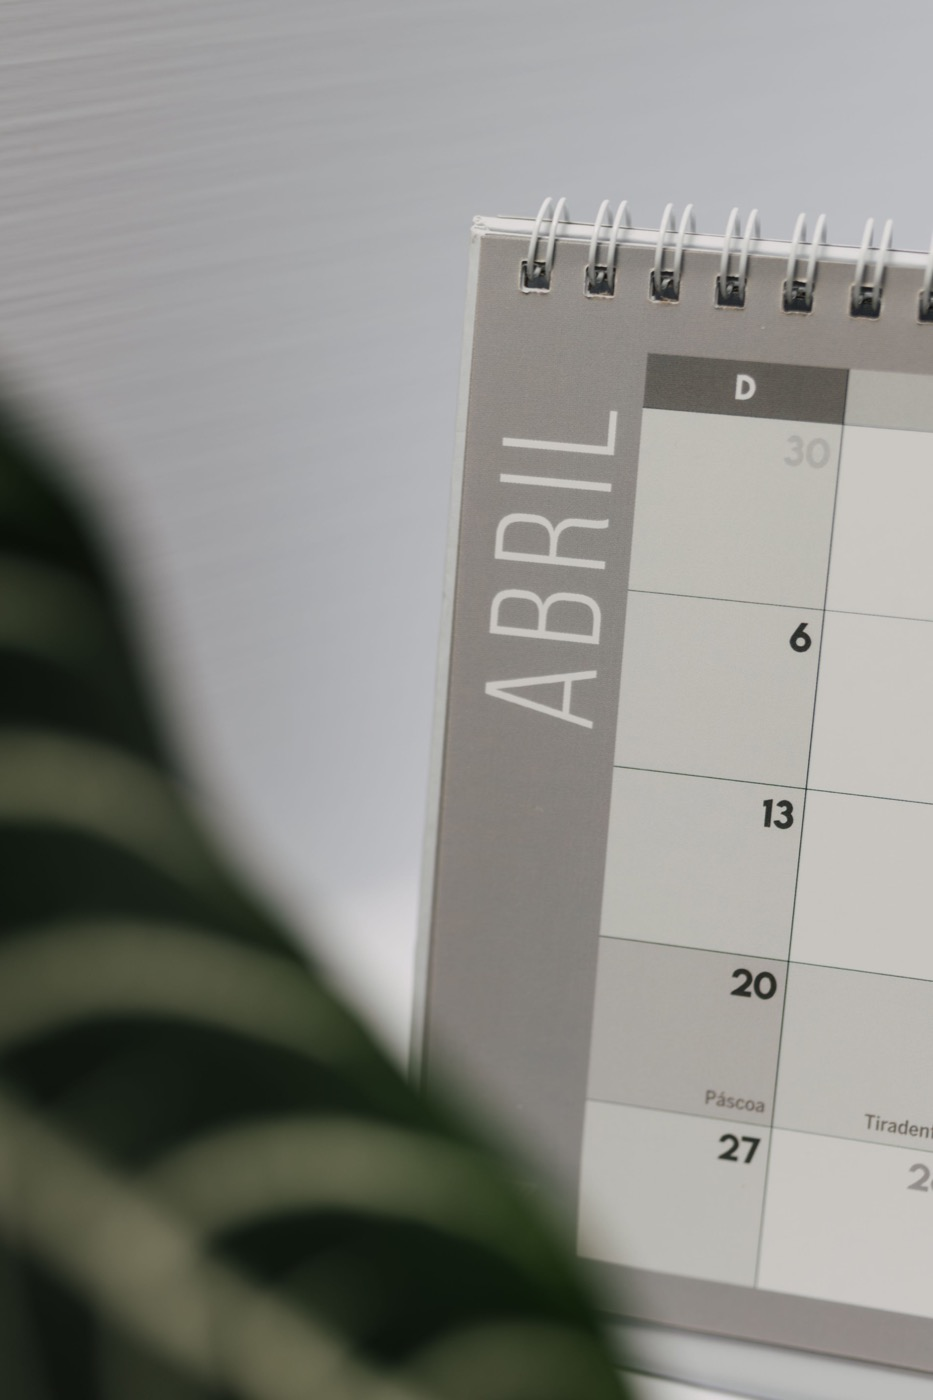
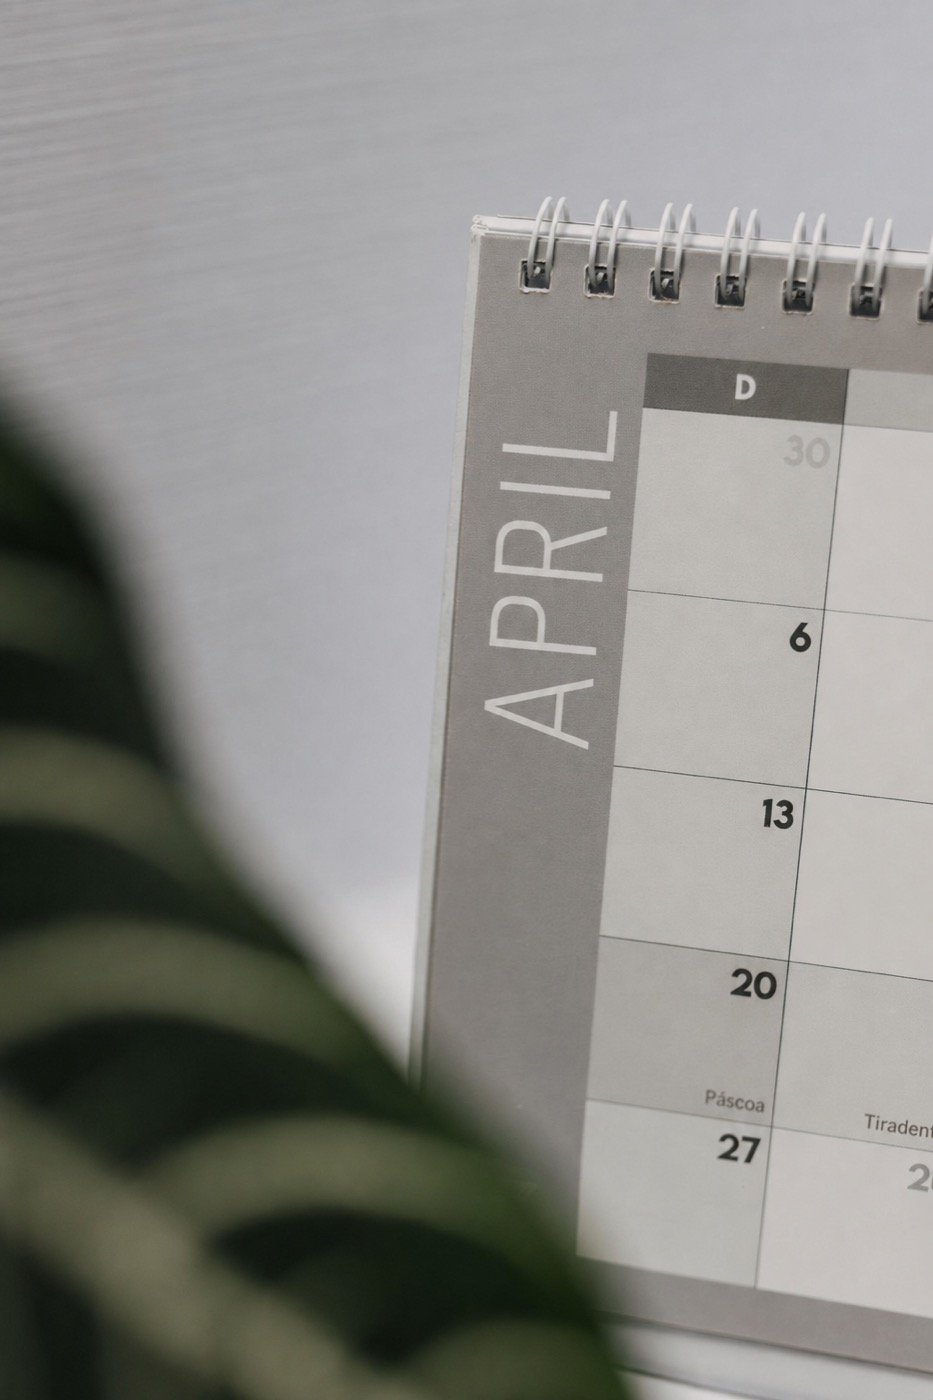
Replace presentation image and localize calendar month

Changed region(s): [[0.4973, 0.3071, 0.6527, 0.5529]]

diff --git a/dienstleistungen.css b/dienstleistungen.css
@@ -142,7 +142,7 @@ h1 { font-size: clamp(26px, 4vw, 44px); line-height: 1.15; overflow-wrap: anywhe
 .holiday-services .holiday-grid { gap: 24px; }
 .holiday-services .holiday-grid article.care-card { position: relative; isolation: isolate; overflow: hidden; border-radius: 16px; min-height: 360px; padding: 32px; display: flex; align-items: flex-end; background: #143845; }
 .care-card img { position: absolute; inset: 0; width: 100%; height: 100%; object-fit: cover; z-index: -2; }
-.care-card:first-child img { object-position: 75% 20%; transform: scale(1.18); transform-origin: 75% 20%; }
+.care-card:first-child img { object-position: center 45%; }
 .care-card::before { content: ''; position: absolute; inset: 0; z-index: -1; background: linear-gradient(to bottom, rgba(0,0,0,.05) 15%, rgba(0,0,0,.78) 100%); }
 .holiday-services .care-card h3, .holiday-services .care-card p { color: #fff; }
 .holiday-services .care-card p { max-width: 520px; line-height: 1.6; }
